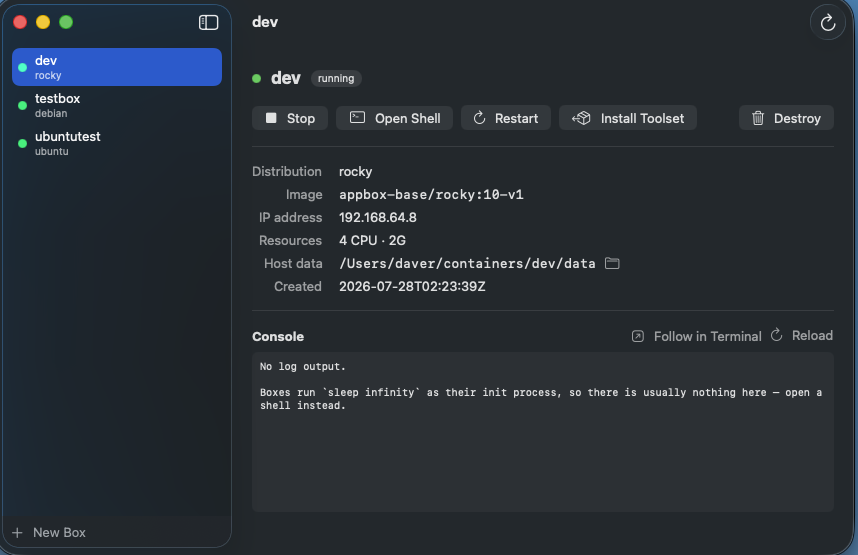
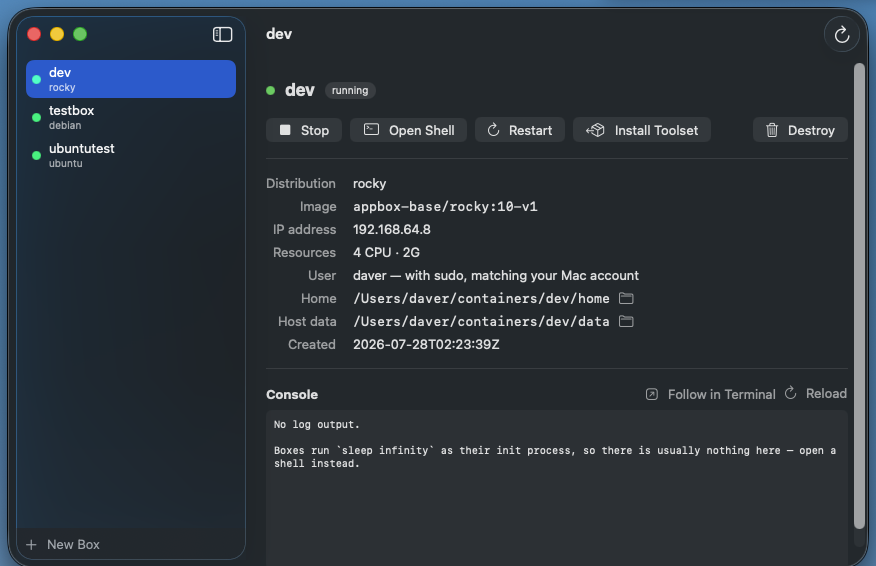
Sync from internal

diff --git a/Sources/AppBoxApp/ManagerView.swift b/Sources/AppBoxApp/ManagerView.swift
@@ -159,7 +159,18 @@ struct BoxDetailView: View {
             row("Image", box.image, monospaced: true)
             row("IP address", box.ipv4 ?? "— (only assigned while running)")
             row("Resources", "\(box.cpus) CPU · \(box.memory)")
-            row("Host data", box.dataDirectory.path, monospaced: true, reveal: true)
+
+            if let user = box.user {
+                row("User", "\(user) — with sudo, matching your Mac account")
+            } else {
+                row("User", "root only (bare box)")
+            }
+
+            if let home = box.homeDirectory {
+                row("Home", home.path, monospaced: true, reveal: home)
+            }
+            row("Host data", box.dataDirectory.path, monospaced: true, reveal: box.dataDirectory)
+
             if box.managed == .inferred {
                 row("Managed", "Yes — detected by shape (created before appbox used labels)")
             }
@@ -171,7 +182,7 @@ struct BoxDetailView: View {
 
     @ViewBuilder
     private func row(
-        _ label: String, _ value: String, monospaced: Bool = false, reveal: Bool = false
+        _ label: String, _ value: String, monospaced: Bool = false, reveal: URL? = nil
     ) -> some View {
         GridRow {
             Text(label)
@@ -181,16 +192,16 @@ struct BoxDetailView: View {
                 Text(value)
                     .font(monospaced ? .body.monospaced() : .body)
                     .textSelection(.enabled)
-                if reveal {
+                if let reveal {
                     Button {
                         NSWorkspace.shared.selectFile(
-                            nil, inFileViewerRootedAtPath: box.dataDirectory.path)
+                            nil, inFileViewerRootedAtPath: reveal.path)
                     } label: {
                         Image(systemName: "folder")
                     }
                     .buttonStyle(.borderless)
                     .help("Reveal in Finder")
-                    .disabled(!box.hasHostData)
+                    .disabled(!FileManager.default.fileExists(atPath: reveal.path))
                 }
             }
         }

diff --git a/Sources/AppBoxKit/BoxManager.swift b/Sources/AppBoxKit/BoxManager.swift
@@ -38,6 +38,10 @@ public struct Box: Sendable {
     public var image: String
     public var ipv4: String?
     public var dataDirectory: URL
+    /// Host directory backing the box user's home, when the box has one.
+    /// Read from the container's actual mounts rather than assumed from
+    /// configuration, so it reflects how the box was really created.
+    public var homeDirectory: URL?
     public var managed: Managed
     public var distro: String?
     /// The Linux account created to mirror the host user, if the box has one.
@@ -47,6 +51,9 @@ public struct Box: Sendable {
     public var createdAt: String?
 
     public var isRunning: Bool { state == .running }
+    /// A box with its own account and persistent home, rather than a bare
+    /// container running as root.
+    public var isFullInstall: Bool { user != nil && homeDirectory != nil }
     /// Does the host data directory actually exist on disk?
     public var hasHostData: Bool {
         FileManager.default.fileExists(atPath: dataDirectory.path)
@@ -117,6 +124,9 @@ public struct BoxManager: Sendable {
             image: record.image,
             ipv4: record.ipv4,
             dataDirectory: config.dataDirectory(for: record.id),
+            homeDirectory: record.configuration.mounts
+                .first { $0.destination.hasPrefix("/home/") }
+                .map { URL(fileURLWithPath: $0.source) },
             managed: Self.classify(record),
             // Labels are authoritative; fall back to reading the image
             // reference so pre-label boxes still report a distro.

diff --git a/README.md b/README.md
@@ -16,7 +16,7 @@ switch to flip it on or off. Create, provision, inspect and destroy boxes from a
 management window, and open a real shell in Terminal with one click.
 
 <p align="center">
-  <img src="docs/screenshots/menu-bar.png" width="430" alt="The AppBox menu bar dropdown listing three running boxes with state dots and on/off switches">
+  <img src="docs/screenshots/menu-bar.png" width="390" alt="The AppBox menu bar dropdown listing three running boxes with state dots and on/off switches">
 </p>
 
 <p align="center">
@@ -39,12 +39,12 @@ Rocky has no `latest` tag at all.
 
 ### Manage everything
 
-<img src="docs/screenshots/manager.png" width="820" alt="The management window showing the dev box stopped, with its image, host data directory and console">
+<img src="docs/screenshots/manager.png" width="876" alt="The management window showing the dev box running, with its user, home directory, host data and console">
 
 Per-box detail: the image it was built from, IP (only assigned while running),
-host data directory with a reveal-in-Finder button, and a console pane. Boxes
-built by AppBox run from a cached `appbox-base/` image carrying the toolset and
-the user account.
+the box's user account, and both host directories — the persistent home and
+`/data` — each with a reveal-in-Finder button. Boxes built by AppBox run from a
+cached `appbox-base/` image carrying the toolset and the account.
 
 ### Open a real shell
 
